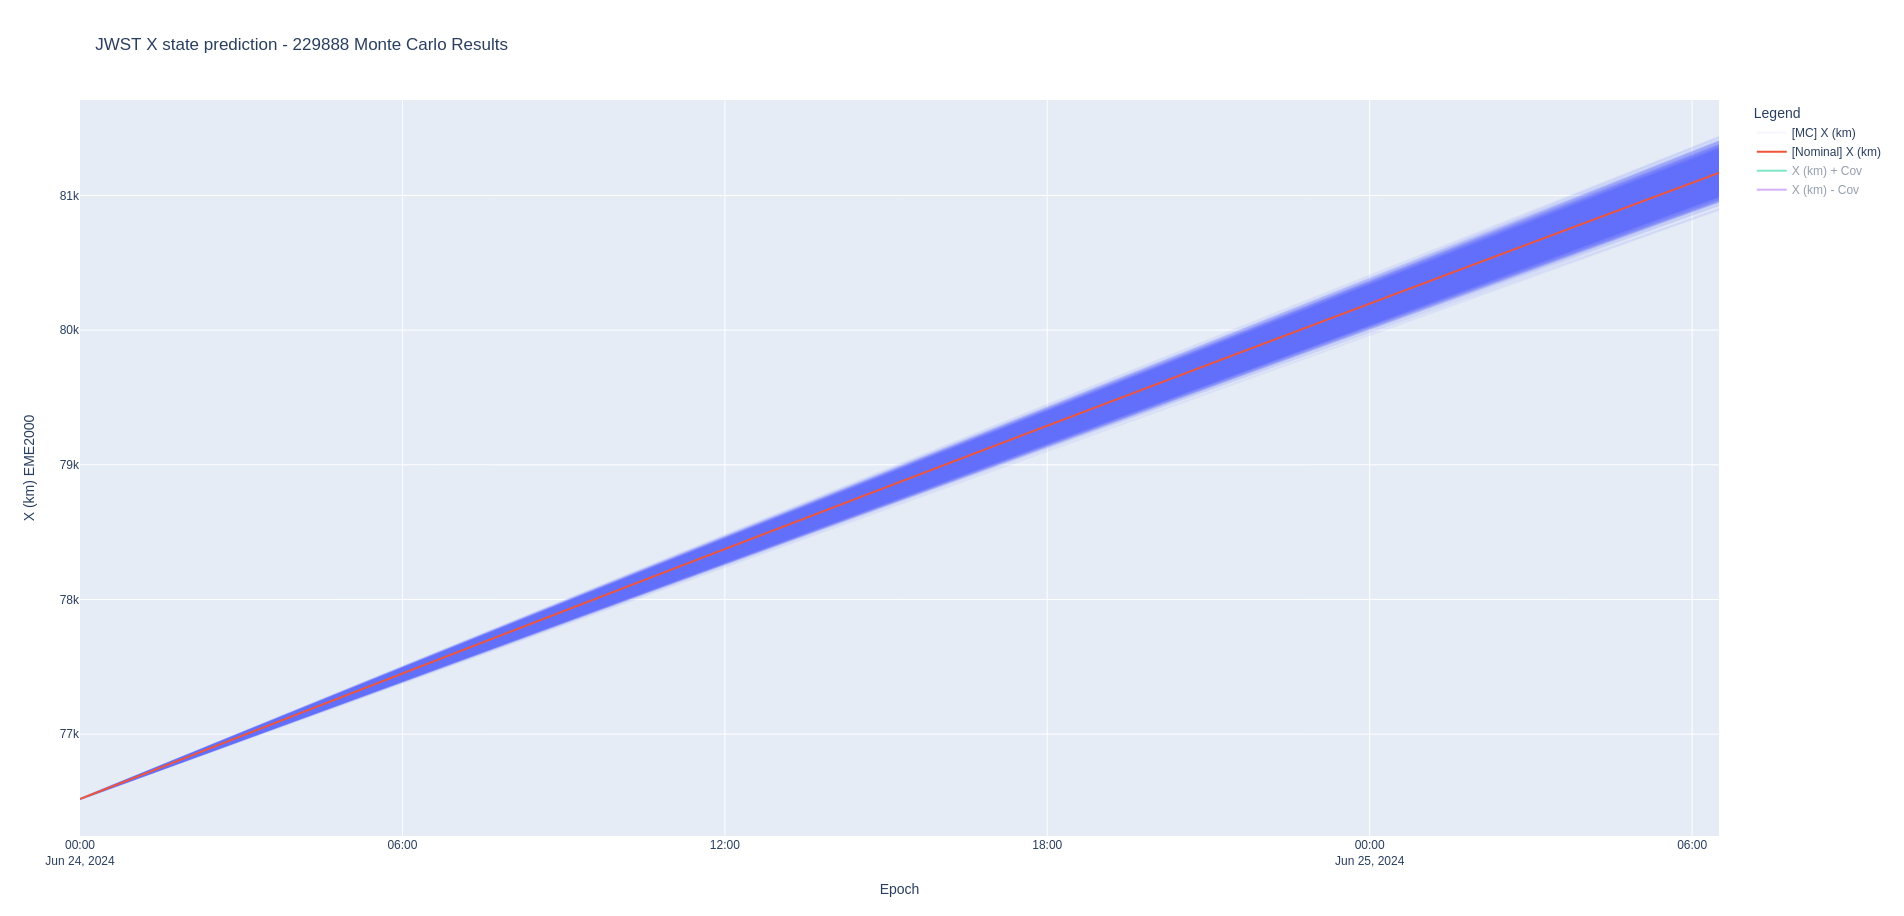
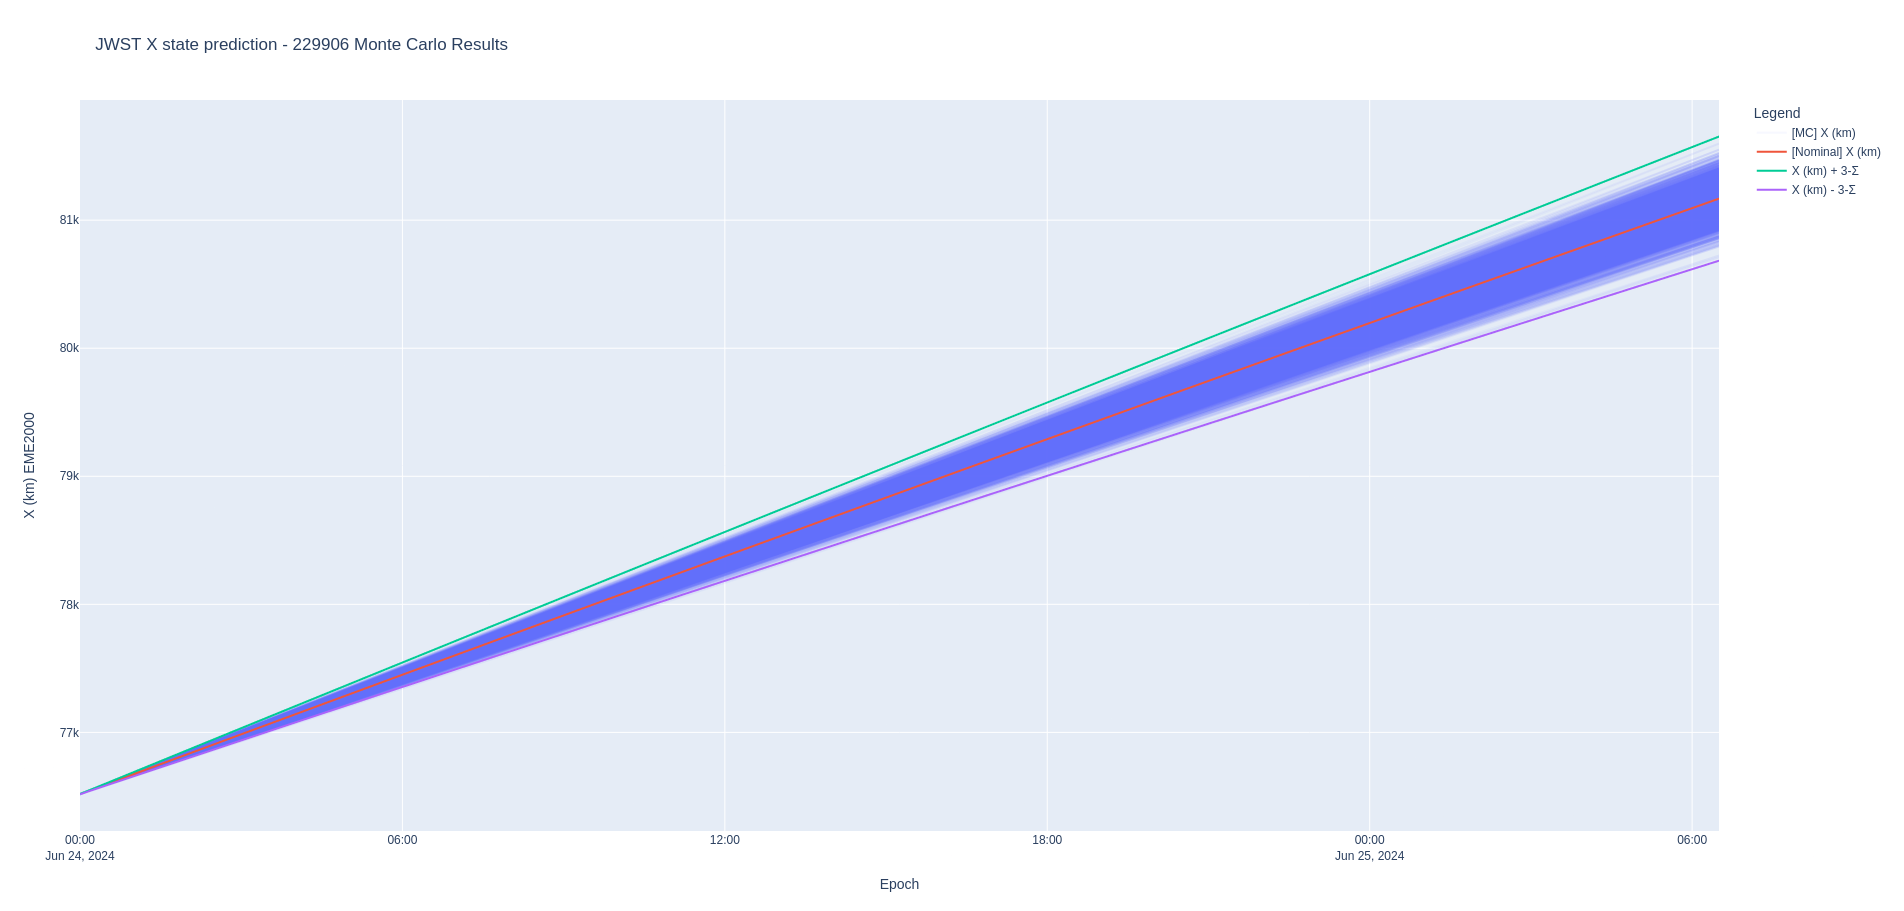
OD export now includes sigmas in integr. and RIC
Also fixed the 02 example plotting

diff --git a/src/od/process/export.rs b/src/od/process/export.rs
@@ -135,32 +135,78 @@ where
         }
 
         let state_items = ["X", "Y", "Z", "Vx", "Vy", "Vz", "Cr", "Cd", "Mass"];
+        let state_units = [
+            "km", "km", "km", "km/s", "km/s", "km/s", "unitless", "unitless", "kg",
+        ];
+        let mut cov_units = vec![];
+
+        for i in 0..state_items.len() {
+            for j in i..state_items.len() {
+                let cov_unit = if i < 3 {
+                    if j < 3 {
+                        "km^2"
+                    } else if (3..6).contains(&j) {
+                        "km^2/s"
+                    } else if j == 8 {
+                        "km*kg"
+                    } else {
+                        "km"
+                    }
+                } else if (3..6).contains(&i) {
+                    if (3..6).contains(&j) {
+                        "km^2/s^2"
+                    } else if j == 8 {
+                        "km/s*kg"
+                    } else {
+                        "km/s"
+                    }
+                } else if i == 8 || j == 8 {
+                    "kg^2"
+                } else {
+                    "unitless"
+                };
+
+                cov_units.push(cov_unit);
+            }
+        }
+
         let est_size = <S as State>::Size::dim();
         assert!(
             est_size <= state_items.len(),
             "state of size {est_size} is not yet supported"
         );
 
-        let mut cov_hdrs = Vec::new();
-
+        let mut idx = 0;
         for i in 0..state_items.len() {
             for j in i..state_items.len() {
-                cov_hdrs.push(format!("Covariance {}{}", state_items[i], state_items[j]));
+                hdrs.push(Field::new(
+                    format!(
+                        "Covariance {}*{} ({frame:x}) ({})",
+                        state_items[i], state_items[j], cov_units[idx]
+                    ),
+                    DataType::Float64,
+                    false,
+                ));
+                idx += 1;
             }
         }
 
-        // Add the covariance in the integration frame
-        for hdr in &cov_hdrs {
+        // Add the uncertainty in the integration frame
+        for (i, coord) in state_items.iter().enumerate() {
             hdrs.push(Field::new(
-                format!("{hdr} ({frame:x})"),
+                format!("Sigma {coord} ({frame:x}) ({})", state_units[i]),
                 DataType::Float64,
                 false,
             ));
         }
 
-        // Add the covariance in the RIC frame
-        for hdr in &cov_hdrs {
-            hdrs.push(Field::new(format!("{hdr} (RIC)"), DataType::Float64, false));
+        // Add the position and velocity uncertainty in the RIC frame
+        for (i, coord) in state_items.iter().enumerate().take(6) {
+            hdrs.push(Field::new(
+                format!("Sigma {coord} (RIC) ({})", state_units[i]),
+                DataType::Float64,
+                false,
+            ));
         }
 
         // Add the fields of the residuals
@@ -235,6 +281,7 @@ where
             }
             record.push(Arc::new(data.finish()));
         }
+
         // Add the 1-sigma covariance in the integration frame
         for i in 0..est_size {
             for j in i..est_size {
@@ -245,37 +292,43 @@ where
                 record.push(Arc::new(data.finish()));
             }
         }
-        // Add the 1-sigma covariance in the RIC frame
+
+        // Add the sigma/uncertainty in the integration frame
+        for i in 0..est_size {
+            let mut data = Float64Builder::new();
+            for s in &estimates {
+                data.append_value(s.covar()[(i, i)].sqrt());
+            }
+            record.push(Arc::new(data.finish()));
+        }
+
+        // Add the sigma/uncertainty covariance in the RIC frame
         let mut ric_covariances = Vec::new();
 
         for s in &estimates {
-            let dcm6x6 = s
+            let dcm_ric2inertial = s
                 .state()
                 .orbit()
                 .dcm_from_ric_to_inertial()
                 .unwrap()
                 .state_dcm();
-            // Create a full DCM and only rotate the orbit part of it.
-            let mut dcm = OMatrix::<f64, S::Size, S::Size>::identity();
-            for i in 0..6 {
-                for j in i..6 {
-                    dcm[(i, j)] = dcm6x6[(i, j)];
-                }
-            }
-            let ric_covar = &dcm * s.covar() * &dcm.transpose();
 
+            // Build the matrix view of the orbit part of the covariance.
+            let cov = s.covar();
+            let orbit_cov = cov.fixed_view::<6, 6>(0, 0);
+
+            // Rotate back into the RIC frame
+            let ric_covar = &dcm_ric2inertial * orbit_cov * &dcm_ric2inertial.transpose();
             ric_covariances.push(ric_covar);
         }
 
         // Now store the RIC covariance data.
-        for i in 0..est_size {
-            for j in i..est_size {
-                let mut data = Float64Builder::new();
-                for cov in ric_covariances.iter().take(estimates.len()) {
-                    data.append_value(cov[(i, j)]);
-                }
-                record.push(Arc::new(data.finish()));
+        for i in 0..6 {
+            let mut data = Float64Builder::new();
+            for cov in ric_covariances.iter().take(estimates.len()) {
+                data.append_value(cov[(i, i)].sqrt());
             }
+            record.push(Arc::new(data.finish()));
         }
 
         // Finally, add the residuals.

diff --git a/examples/02_jwst_covar_monte_carlo/plotting.py b/examples/02_jwst_covar_monte_carlo/plotting.py
@@ -13,7 +13,6 @@ if __name__ == "__main__":
     # Build the position plots
     for coord in ["X", "Y", "Z"]:
         col = coord.lower() + " (km)"
-        cov = coord + coord
         fig = go.Figure(
             data=[
                 go.Scattergl(
@@ -34,17 +33,17 @@ if __name__ == "__main__":
                 ),
                 go.Scattergl(
                     x=df_covar["Epoch (UTC)"],
-                    y=df_covar[col] + df_covar[f"Covariance {cov} (Earth J2000)"],
+                    y=df_covar[col] + 3.0*df_covar[f"Sigma {coord} (Earth J2000) (km)"],
                     mode="lines",
                     showlegend=True,
-                    name=coord + " (km) + Cov",
+                    name=coord + " (km) + 3-Σ",
                 ),
                 go.Scattergl(
                     x=df_covar["Epoch (UTC)"],
-                    y=df_covar[col] - df_covar[f"Covariance {cov} (Earth J2000)"],
+                    y=df_covar[col] - 3.0*df_covar[f"Sigma {coord} (Earth J2000) (km)"],
                     mode="lines",
                     showlegend=True,
-                    name=coord + " (km) - Cov",
+                    name=coord + " (km) - 3-Σ",
                 ),
             ]
         )
@@ -59,7 +58,6 @@ if __name__ == "__main__":
     # Build the velocity plots
     for coord in ["VX", "VY", "VZ"]:
         col = coord.lower() + " (km/s)"
-        cov = coord.capitalize() + coord.capitalize()
         fig = go.Figure(
             data=[
                 go.Scattergl(
@@ -80,17 +78,17 @@ if __name__ == "__main__":
                 ),
                 go.Scattergl(
                     x=df_covar["Epoch (UTC)"],
-                    y=df_covar[col] + df_covar[f"Covariance {cov} (Earth J2000)"],
+                    y=df_covar[col] + 3.0*df_covar[f"Sigma {coord.capitalize()} (Earth J2000) (km/s)"],
                     mode="lines",
                     showlegend=True,
-                    name=coord + " (km/s) + Cov",
+                    name=coord + " (km/s) + 3-Σ",
                 ),
                 go.Scattergl(
                     x=df_covar["Epoch (UTC)"],
-                    y=df_covar[col] - df_covar[f"Covariance {cov} (Earth J2000)"],
+                    y=df_covar[col] - 3.0*df_covar[f"Sigma {coord.capitalize()} (Earth J2000) (km/s)"],
                     mode="lines",
                     showlegend=True,
-                    name=coord + " (km/s) - Cov",
+                    name=coord + " (km/s) - 3-Σ",
                 ),
             ]
         )

diff --git a/src/od/estimate/sc_uncertainty.rs b/src/od/estimate/sc_uncertainty.rs
@@ -23,6 +23,8 @@ use anise::{astro::PhysicsResult, errors::PhysicsError};
 use na::{SMatrix, SVector};
 use typed_builder::TypedBuilder;
 
+use crate::md::prelude::OrbitDual;
+use crate::md::StateParameter;
 use crate::{dynamics::guidance::LocalFrame, Spacecraft};
 
 use super::KfEstimate;
@@ -128,6 +130,44 @@ impl SpacecraftUncertainty {
         }
 
         Ok(KfEstimate::from_covar(self.nominal, init_covar))
+    }
+
+    pub fn keplerian_covar(&self) -> SMatrix<f64, 6, 6> {
+        // Build the rotation matrix using Orbit Dual.
+        let mut rotmat = SMatrix::<f64, 6, 6>::zeros();
+        let orbit_dual = OrbitDual::from(self.nominal.orbit);
+        for (col, param) in [
+            StateParameter::SMA,
+            StateParameter::Eccentricity,
+            StateParameter::Inclination,
+            StateParameter::RAAN,
+            StateParameter::AoP,
+            StateParameter::TrueAnomaly,
+        ]
+        .iter()
+        .copied()
+        .enumerate()
+        {
+            let xf_partial = orbit_dual.partial_for(param).unwrap();
+            for (i, val) in [
+                xf_partial.wtr_x(),
+                xf_partial.wtr_y(),
+                xf_partial.wtr_z(),
+                xf_partial.wtr_vx(),
+                xf_partial.wtr_vy(),
+                xf_partial.wtr_vz(),
+            ]
+            .iter()
+            .enumerate()
+            {
+                rotmat[(col, i)] = *val;
+            }
+        }
+        // Build the estimate to have a covariance
+        let estimate = self.to_estimate().unwrap();
+
+        // rotmat * estimate.covar.fixed_view::<6, 6>(0, 0)
+        rotmat.transpose() * estimate.covar.fixed_view::<6, 6>(0, 0) * rotmat
     }
 }
 

diff --git a/src/cosmic/eclipse.rs b/src/cosmic/eclipse.rs
@@ -127,10 +127,10 @@ pub struct EclipseLocator {
 impl fmt::Display for EclipseLocator {
     fn fmt(&self, f: &mut fmt::Formatter) -> fmt::Result {
         let shadow_bodies: Vec<String> =
-            self.shadow_bodies.iter().map(|b| format!("{b}")).collect();
+            self.shadow_bodies.iter().map(|b| format!("{b:x}")).collect();
         write!(
             f,
-            "light-source: {}, shadows casted by: {}",
+            "light-source: {:x}, shadows casted by: {}",
             self.light_source,
             shadow_bodies.join(", ")
         )

diff --git a/examples/02_jwst_covar_monte_carlo/README.md b/examples/02_jwst_covar_monte_carlo/README.md
@@ -66,10 +66,14 @@ INFO  nyx_space::mc::results             > Trajectory written to 02_jwst_monte_c
 
 ## Analysis
 
-**Follow on work in [#327](https://github.com/nyx-space/nyx/issues/327).**
-
 ![JWST MC X (km)](./jwst_mc_X_km.png)
 
 ![JWST MC Y (km)](./jwst_mc_Y_km.png)
 
 ![JWST MC Z (km)](./jwst_mc_Z_km.png)
+
+![JWST MC VX (km/s)](./jwst_mc_VX_km_s.png)
+
+![JWST MC VY (km/s)](./jwst_mc_VY_km_s.png)
+
+![JWST MC VZ (km/s)](./jwst_mc_VZ_km_s.png)
